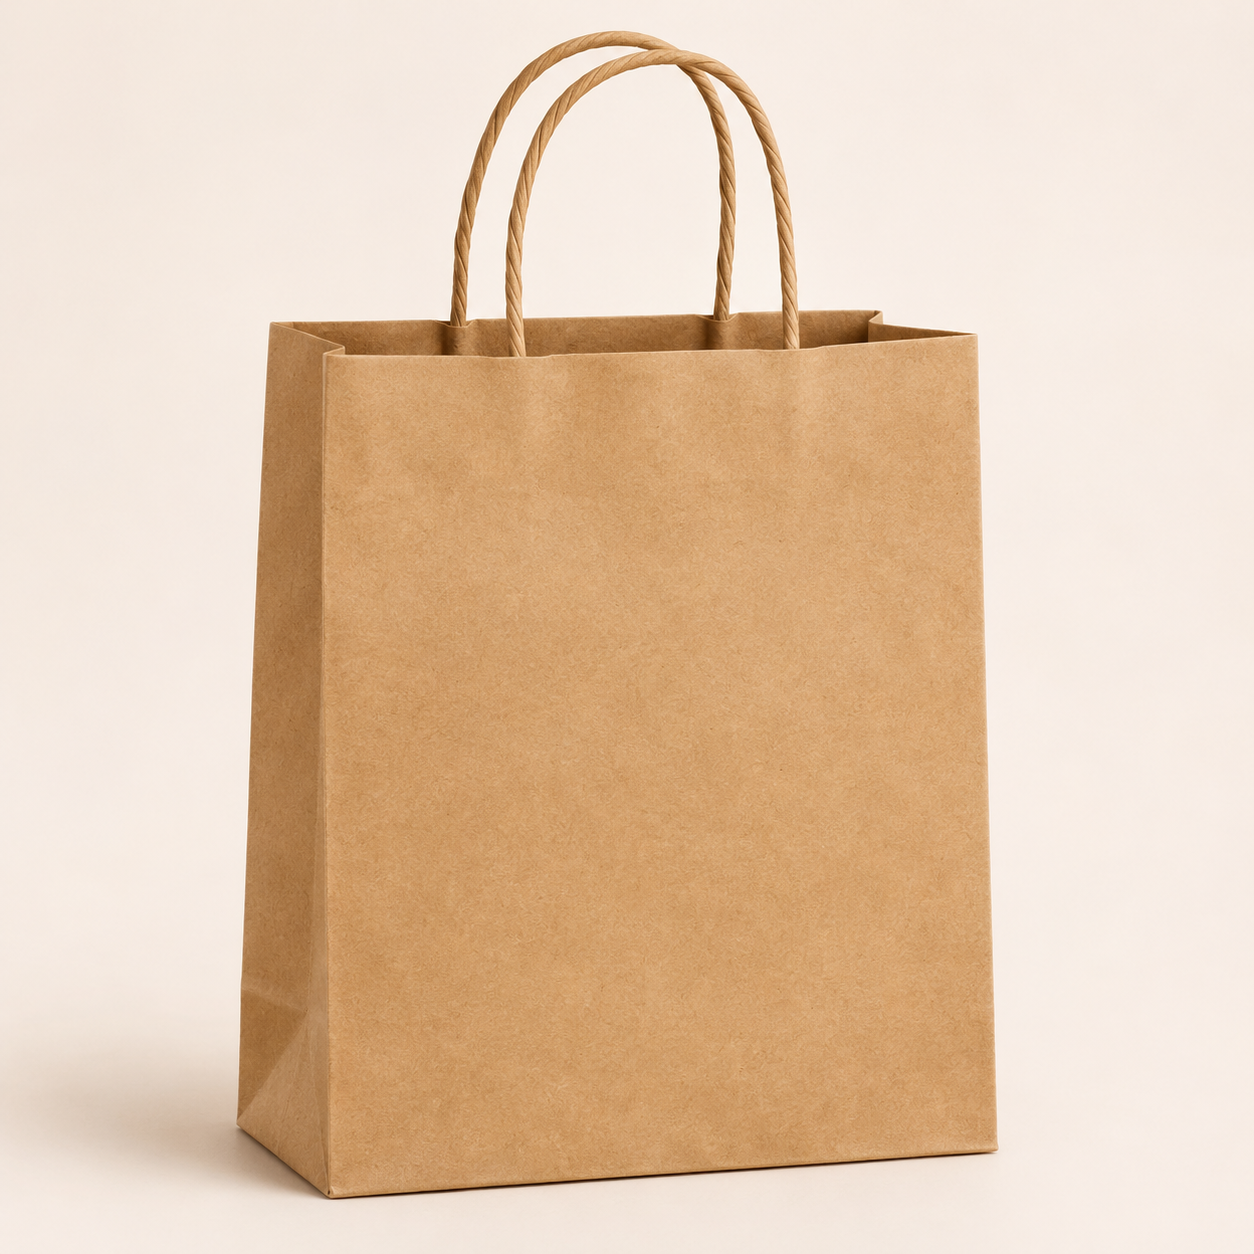
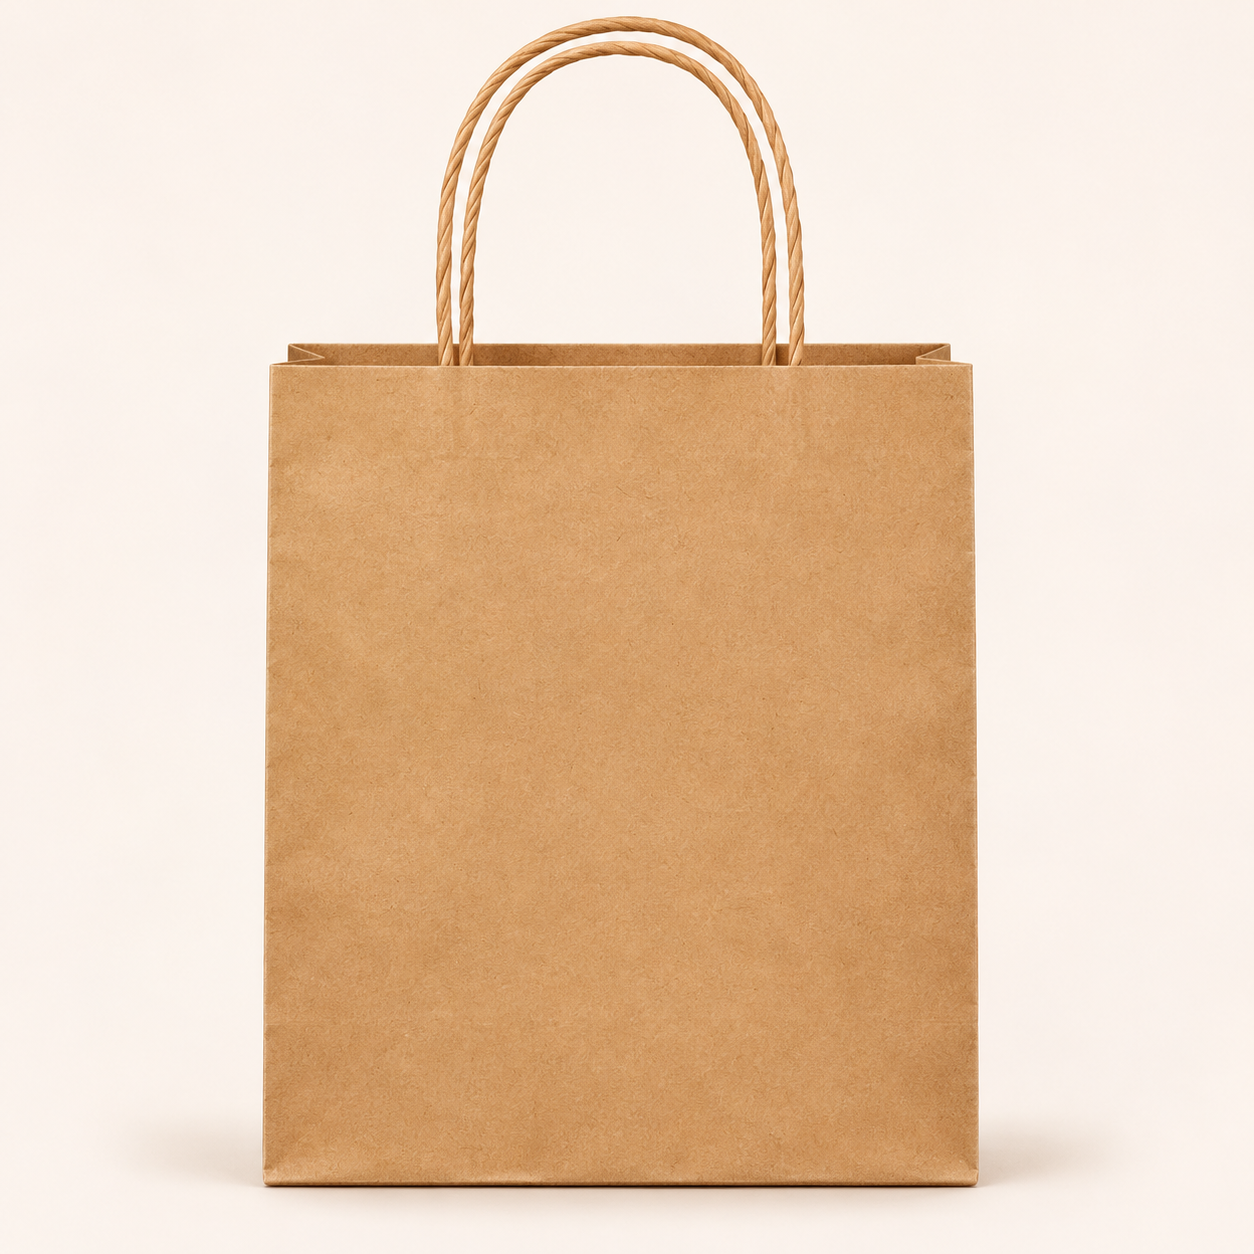
Use front-facing bag and larger stamp previews

Changed region(s): [[0.0, 0.0, 0.8397, 0.9641], [0.6531, 0.622, 0.6842, 0.6842], [0.5909, 0.5287, 0.622, 0.5598]]

diff --git a/line art/app/lib/stamp-preview-renderer.server.ts b/line art/app/lib/stamp-preview-renderer.server.ts
@@ -12,22 +12,22 @@ const artworkContentSize = 430;
 
 const placementQuads: Record<StampPreviewKind, Quad> = {
   box: [
-    { x: 302, y: 302 },
-    { x: 722, y: 302 },
-    { x: 722, y: 722 },
-    { x: 302, y: 722 }
+    { x: 217, y: 217 },
+    { x: 807, y: 217 },
+    { x: 807, y: 807 },
+    { x: 217, y: 807 }
   ],
   cup: [
-    { x: 355, y: 435 },
-    { x: 669, y: 435 },
-    { x: 650, y: 735 },
-    { x: 374, y: 735 }
+    { x: 308, y: 390 },
+    { x: 716, y: 390 },
+    { x: 691, y: 780 },
+    { x: 333, y: 780 }
   ],
   bag: [
-    { x: 350, y: 460 },
-    { x: 680, y: 460 },
-    { x: 690, y: 790 },
-    { x: 340, y: 790 }
+    { x: 297, y: 420 },
+    { x: 727, y: 420 },
+    { x: 727, y: 850 },
+    { x: 297, y: 850 }
   ]
 };
 

diff --git a/line art/app/lib/stamp-previews.server.ts b/line art/app/lib/stamp-previews.server.ts
@@ -8,7 +8,7 @@ import { fetchStoredFile, storageBucket, uploadStoredFile } from "./storage.serv
 export const stampPreviewKinds = ["box", "cup", "bag"] as const;
 export type StampPreviewKind = (typeof stampPreviewKinds)[number];
 
-const stampPreviewRenderer = "deterministic-v2";
+const stampPreviewRenderer = "deterministic-v3";
 
 const configureFal = () => {
   fal.config({ credentials: requireServerEnv("FAL_KEY") });
